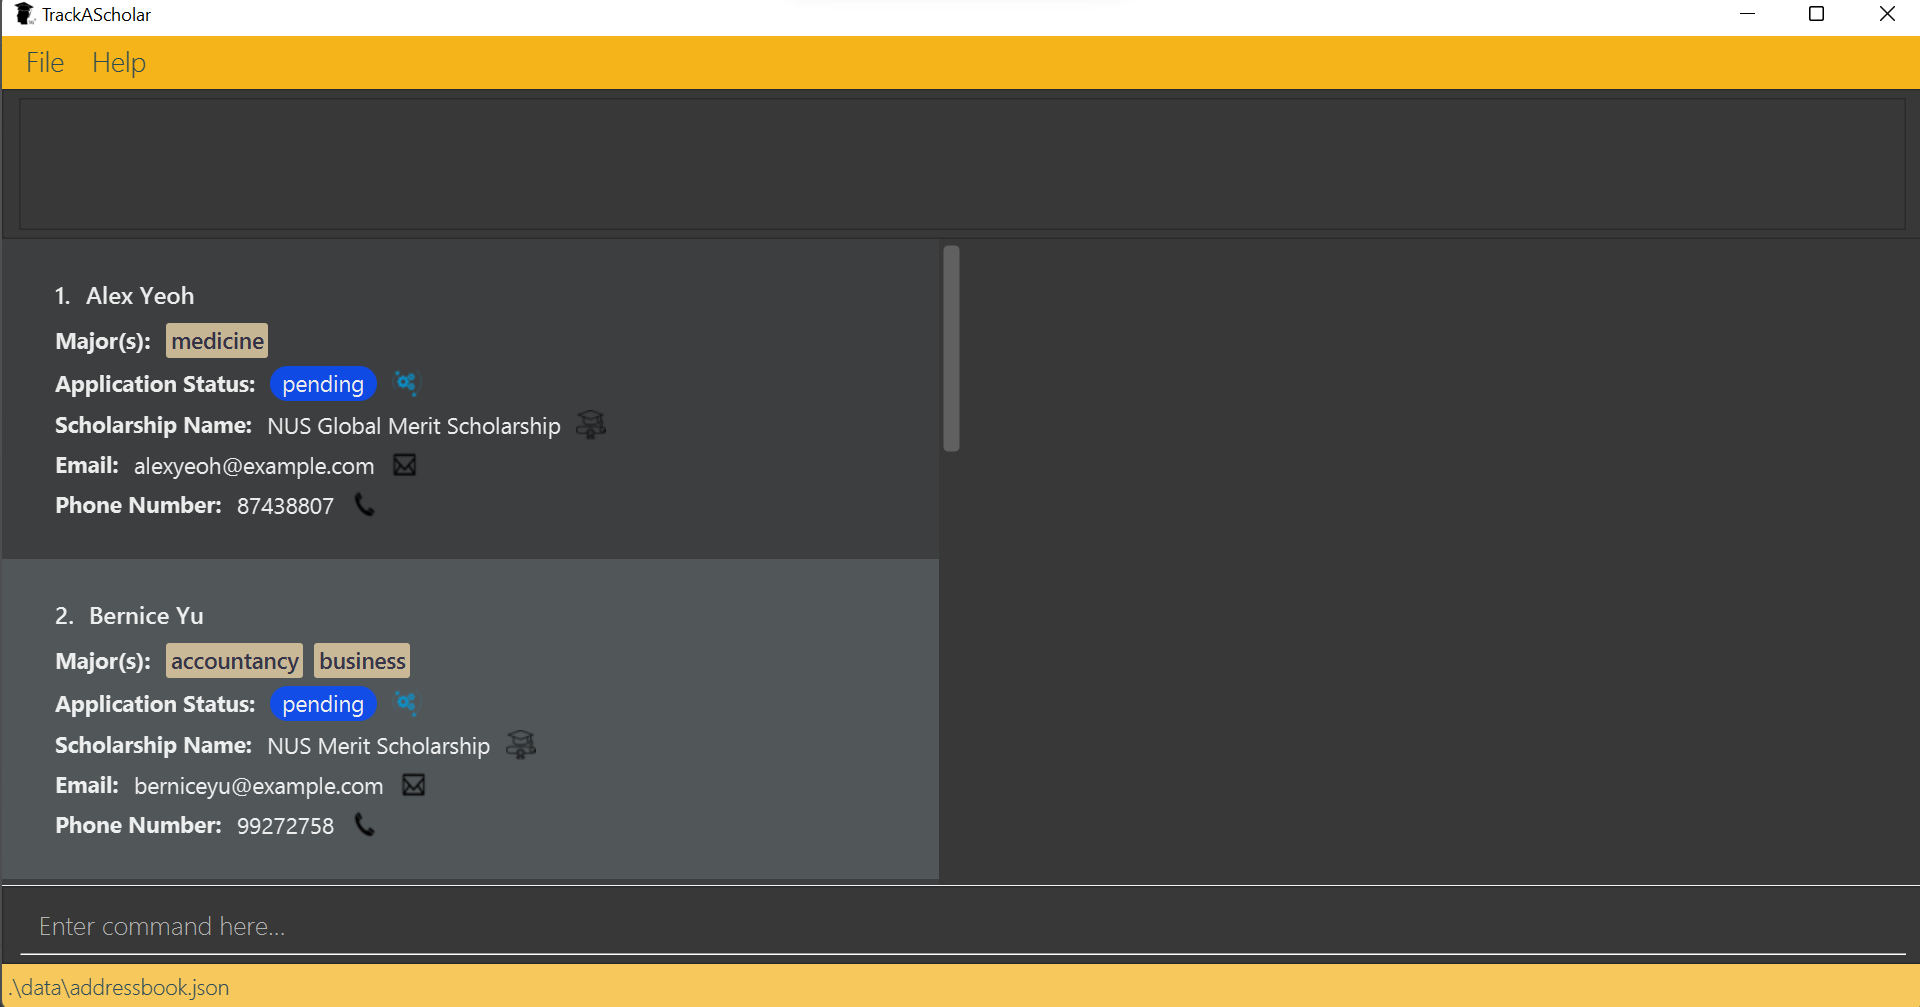
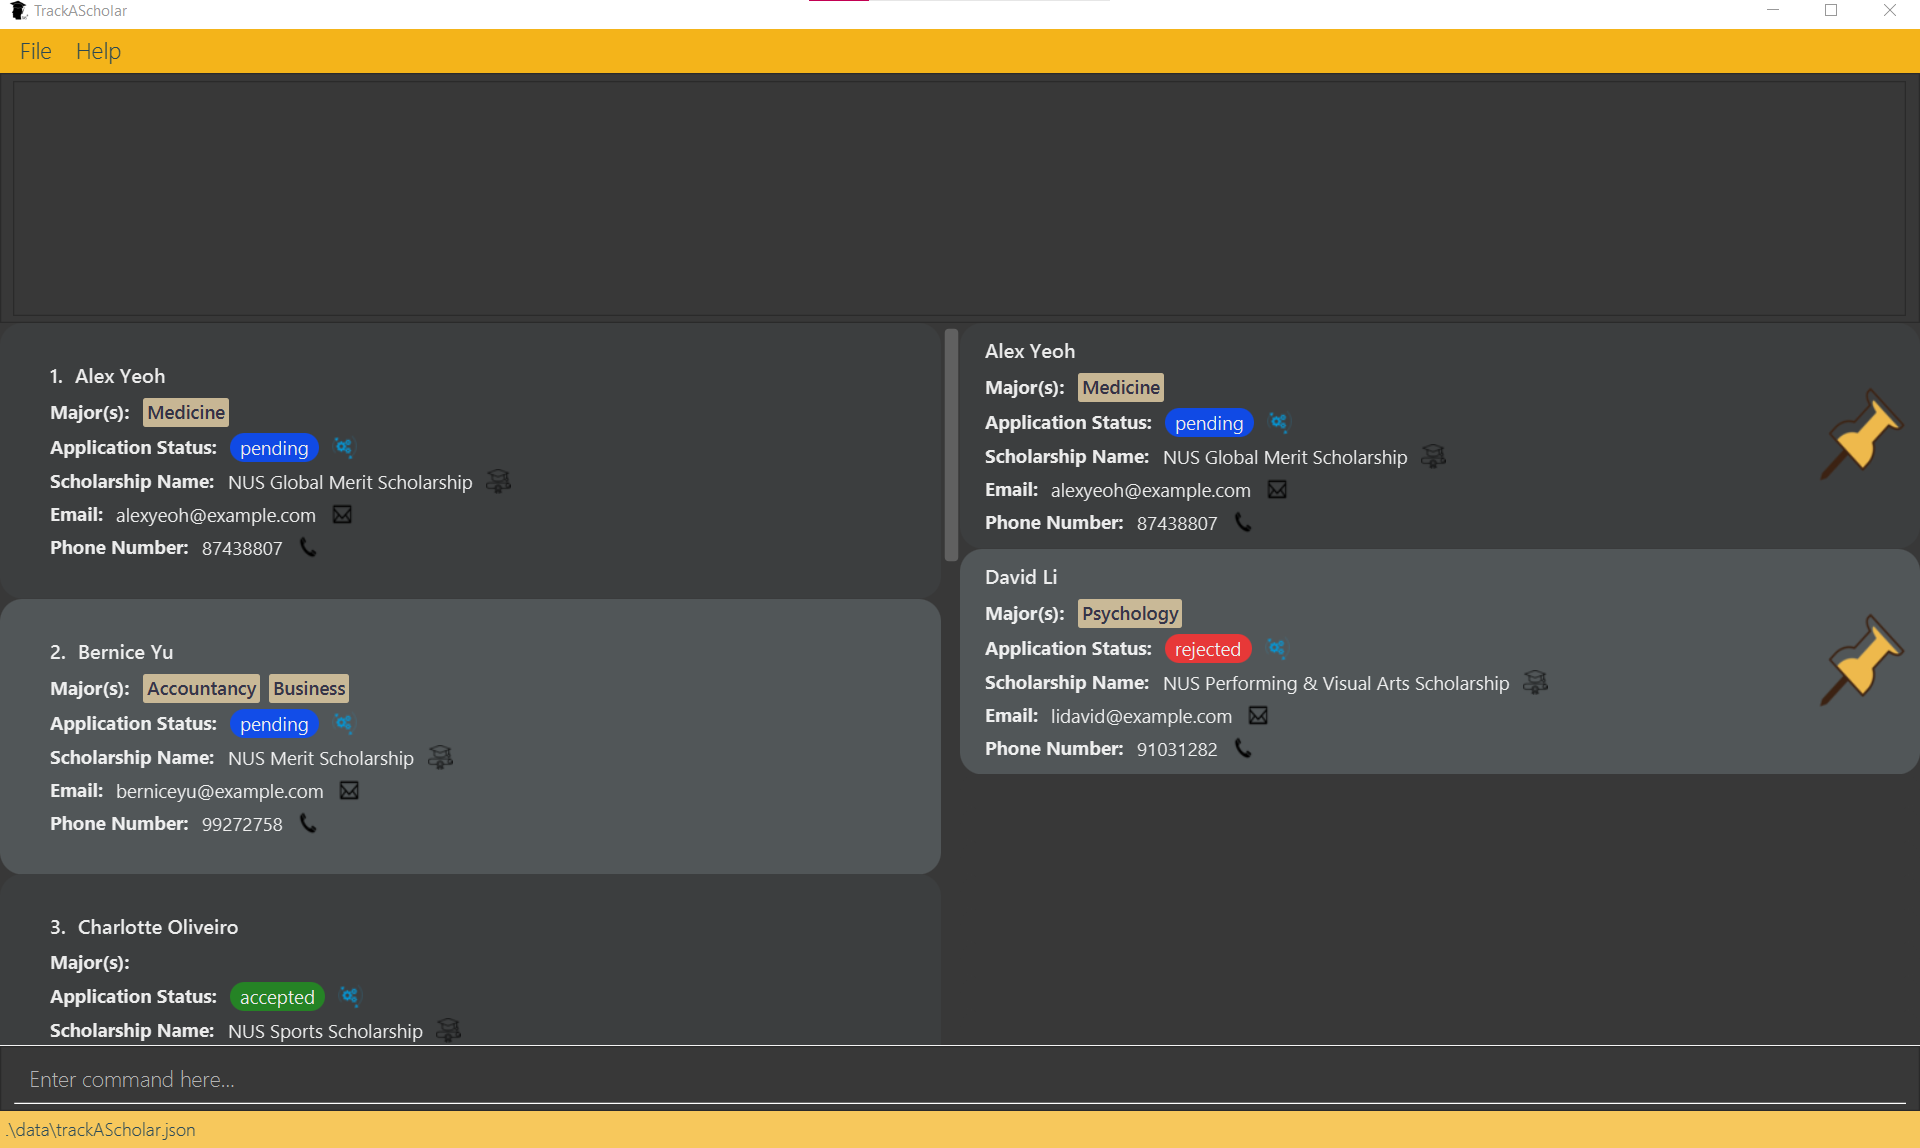
Update sample data for TrackAScholar

diff --git a/src/main/java/seedu/trackascholar/model/util/SampleDataUtil.java b/src/main/java/seedu/trackascholar/model/util/SampleDataUtil.java
@@ -6,12 +6,7 @@ import java.util.stream.Collectors;
 
 import seedu.trackascholar.model.ReadOnlyTrackAScholar;
 import seedu.trackascholar.model.TrackAScholar;
-import seedu.trackascholar.model.applicant.Applicant;
-import seedu.trackascholar.model.applicant.ApplicationStatus;
-import seedu.trackascholar.model.applicant.Email;
-import seedu.trackascholar.model.applicant.Name;
-import seedu.trackascholar.model.applicant.Phone;
-import seedu.trackascholar.model.applicant.Scholarship;
+import seedu.trackascholar.model.applicant.*;
 import seedu.trackascholar.model.major.Major;
 
 /**
@@ -22,7 +17,7 @@ public class SampleDataUtil {
         return new Applicant[] {
             new Applicant(new Name("Alex Yeoh"), new Phone("87438807"), new Email("alexyeoh@example.com"),
                 new Scholarship("NUS Global Merit Scholarship"), new ApplicationStatus("pending"),
-                getMajorSet("Medicine")),
+                getMajorSet("Medicine"), new Pin(true)),
             new Applicant(new Name("Bernice Yu"), new Phone("99272758"), new Email("berniceyu@example.com"),
                 new Scholarship("NUS Merit Scholarship"),
                 new ApplicationStatus("pending"), getMajorSet("Business", "Accountancy")),
@@ -31,7 +26,7 @@ public class SampleDataUtil {
                 new ApplicationStatus("accepted"), getMajorSet()),
             new Applicant(new Name("David Li"), new Phone("91031282"), new Email("lidavid@example.com"),
                 new Scholarship("NUS Performing & Visual Arts Scholarship"),
-                new ApplicationStatus("rejected"), getMajorSet("Psychology")),
+                new ApplicationStatus("rejected"), getMajorSet("Psychology"), new Pin(true)),
             new Applicant(new Name("Irfan Ibrahim"), new Phone("92492021"), new Email("irfan@example.com"),
                 new Scholarship("NUS Merit Scholarship"), new ApplicationStatus("pending"),
                 getMajorSet("Software Engineering")),
